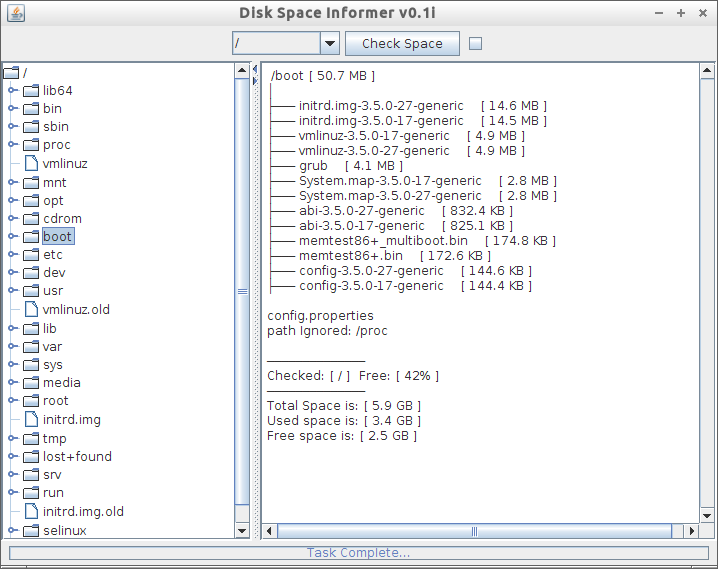
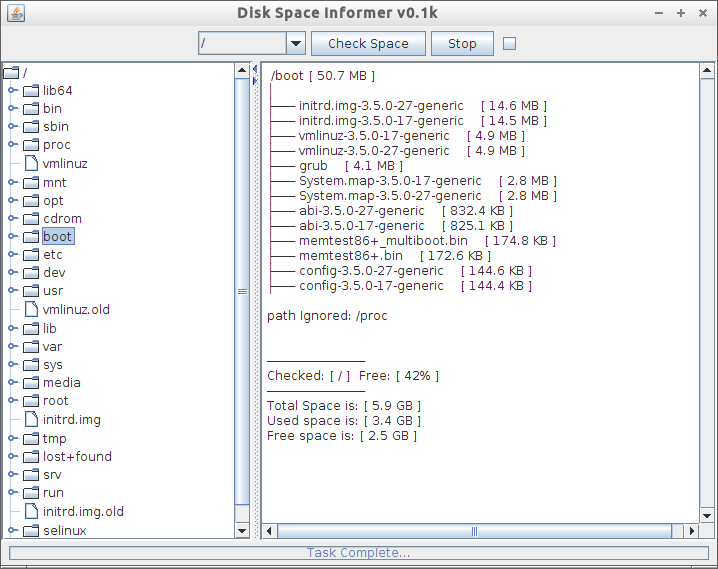
stop button to interrupt thread

Changed region(s): [[0.337, 0.0, 0.7354, 0.1195], [0.3677, 0.5378, 0.5515, 0.5975], [0.2758, 0.0299, 0.337, 0.1195]]

diff --git a/src/dsi/DiskSpaceInformer.java b/src/dsi/DiskSpaceInformer.java
@@ -4,26 +4,29 @@ import javax.swing.*;
 import javax.swing.tree.*;
 import java.awt.*;
 import java.awt.event.*;
+import java.beans.PropertyChangeEvent;
+import java.beans.PropertyChangeListener;
 import java.io.File;
 import java.io.IOException;
+import java.lang.reflect.InvocationTargetException;
 import java.util.*;
 import java.util.logging.Level;
 import java.util.logging.LogManager;
 import java.util.logging.Logger;
-
 
 public class DiskSpaceInformer extends JPanel
         implements ActionListener {
 
     private static Logger log;
     private static JTextArea textArea;
+    private final JButton stopButton;
     private JTree tree;
     private final JButton checkButton;
     private JScrollPane treeScrollPane;
     protected FindFileAndFolderSizes task;
     protected JProgressBar progressBar;
 
-    private static String version = "Disk Space Informer v0.1k";
+    private static String version = "Disk Space Informer v0.1L";
     static private final String newline = "\n";
     private final JComboBox drives;
 
@@ -68,6 +71,9 @@ public class DiskSpaceInformer extends JPanel
         checkButton = new JButton("Check Space");
         checkButton.setName("Check Space");
         checkButton.addActionListener(this);
+        stopButton = new JButton("Stop");
+        stopButton.setName("Stop");
+        stopButton.addActionListener(this);
 
         drives = new JComboBox(files);
         if (path != "") drives.addItem(path);
@@ -87,6 +93,7 @@ public class DiskSpaceInformer extends JPanel
         JPanel controlPanel = new JPanel();
         controlPanel.add(drives);
         controlPanel.add(checkButton);
+        controlPanel.add(stopButton);
         controlPanel.add(debugToggle);
 
         progressBar = new JProgressBar();
@@ -95,6 +102,7 @@ public class DiskSpaceInformer extends JPanel
         progressBar.setPreferredSize(prefSize);
         JPanel progressPanel = new JPanel();
         progressPanel.add(progressBar);
+
 
         String root = drives.getSelectedItem().toString();
         tree = new JTree();
@@ -120,20 +128,21 @@ public class DiskSpaceInformer extends JPanel
             tree.addMouseListener(new LeftClickMouseListener());
             treeScrollPane.setViewportView(tree);
         } else if (e.getSource() == checkButton) {
-
             task = new FindFileAndFolderSizes.Builder(new TreeFile(drives.getSelectedItem().toString()))
                     .pathstoIgnore(pathsToIgnore)
                     .textArea(textArea)
                     .progressBar(progressBar)
                     .debug(debug).build();
             task.execute();
+        } else if (e.getSource() == stopButton) {
+            task.cancel(true);
+
         }
     }
 
     private void showSpaceUsedByFolder() {
         TreePath[] selectionPaths = tree.getSelectionPaths();
         for (TreePath path : selectionPaths) {
-            FindFileAndFolderSizes task;
             File lastPathComponent = (File) path.getLastPathComponent();
             task = new FindFileAndFolderSizes.Builder(lastPathComponent)
                     .pathstoIgnore(pathsToIgnore)
@@ -164,9 +173,7 @@ public class DiskSpaceInformer extends JPanel
                 }
             }
         }
-    }
-
-    ;
+    };
 
     private static void setupAndShowUI(File[] files, String path) {
         JFrame frame = new JFrame(version);
@@ -177,8 +184,8 @@ public class DiskSpaceInformer extends JPanel
         frame.setVisible(true);
     }
 
-    public static void main(final String[] args) throws IOException {
-        SwingUtilities.invokeLater(new Runnable() {
+    public static void main(final String[] args) throws IOException, InvocationTargetException, InterruptedException {
+        SwingUtilities.invokeAndWait(new Runnable() {
             public void run() {
                 UIManager.put("swing.boldMetal", Boolean.FALSE);
                 if (args.length == 0) {

diff --git a/src/dsi/FindFileAndFolderSizes.java b/src/dsi/FindFileAndFolderSizes.java
@@ -30,6 +30,7 @@ class FindFileAndFolderSizes extends SwingWorker<Void, Void> {
         private boolean debug = false;
         private JProgressBar progressBar = new JProgressBar();
 
+
         public Builder(File file){
               this.file = file;
         }
@@ -44,6 +45,7 @@ class FindFileAndFolderSizes extends SwingWorker<Void, Void> {
             {debug = val; return this;}
         public Builder progressBar(JProgressBar val)
             {progressBar = val; return this;}
+
 
         public FindFileAndFolderSizes build(){
             return new FindFileAndFolderSizes(this);
@@ -61,6 +63,8 @@ class FindFileAndFolderSizes extends SwingWorker<Void, Void> {
 
     @Override
     public Void doInBackground() throws Exception {
+        //int progress = 0;
+        setProgress(0);
         if (file.isFile()) {
             textArea.setText(formatter.format(file) + "\n" + textArea.getText() + "\n");
             return null;
@@ -74,13 +78,15 @@ class FindFileAndFolderSizes extends SwingWorker<Void, Void> {
         for (String path : pathsToIgnore) {
             foldersToIgnore.add(new File(path).toPath());
         }
-
-        FileSystemVisitor visitor = new FileSystemVisitor(root, foldersToIgnore, progressBar);
-        String extraInfo = "";
+            FileSystemVisitor visitor = new FileSystemVisitor(root, foldersToIgnore, progressBar);
+            String extraInfo = "";
         try {
             Files.walkFileTree(root, visitor);
             foldersSizes = visitor.getFoldersSizes();
             extraInfo = visitor.getErrors();
+        } catch (VisitorException e) {
+            progressBar.setString(e.getMessage());
+            throw new VisitorException(e.getMessage());
         } catch (IOException e) {
             e.printStackTrace();
         }

diff --git a/src/dsi/FileSystemVisitor.java b/src/dsi/FileSystemVisitor.java
@@ -8,6 +8,18 @@ import java.util.*;
 import java.util.logging.Level;
 import java.util.logging.Logger;
 
+class VisitorException extends IOException
+{
+    public VisitorException() {}
+
+    //Constructor that accepts a message
+    public VisitorException(String message){
+        super(message);
+    }
+
+
+}
+
 public class FileSystemVisitor implements FileVisitor<Path> {
 
     private JProgressBar progressBar;
@@ -30,7 +42,7 @@ public class FileSystemVisitor implements FileVisitor<Path> {
         return foldersSizes;
     }
 
-    FileSystemVisitor(Path path, List pathsToIgnore,  JProgressBar progressBar) {
+    FileSystemVisitor(Path path, List pathsToIgnore, JProgressBar progressBar) {
         this(path);
         this.pathsToIgnore = pathsToIgnore;
         this.progressBar = progressBar;
@@ -48,6 +60,10 @@ public class FileSystemVisitor implements FileVisitor<Path> {
     }
 
     public FileVisitResult preVisitDirectory(Path dir, BasicFileAttributes attrs) throws IOException {
+
+        if (Thread.interrupted()) {
+            throw new VisitorException("Cancelled Task");
+        }
         log.log(Level.FINE, "[D]\t " + dir);
         progressBar.setString(dir.toString());
         if (pathsToIgnore.contains(dir)){

diff --git a/test/dsi/FileSystemVisitorTest.java b/test/dsi/FileSystemVisitorTest.java
@@ -10,11 +10,8 @@ import java.io.*;
 import java.lang.reflect.Method;
 import java.net.URL;
 import java.net.URLClassLoader;
-import java.nio.ByteBuffer;
-import java.nio.charset.Charset;
 import java.nio.file.Files;
 import java.nio.file.Path;
-import java.nio.file.Paths;
 import java.util.*;
 
 import static org.junit.Assert.*;
@@ -121,7 +118,7 @@ public class FileSystemVisitorTest {
             File file = new File(path);
             foldersToIgnore.add(file.toPath());
         }
-        FileSystemVisitor visitor = new FileSystemVisitor(root, foldersToIgnore, new JProgressBar());
+        FileSystemVisitor visitor = new FileSystemVisitor(root, foldersToIgnore, new JProgressBar() );
         try {
             Files.walkFileTree(root, visitor);
     } catch (IOException e) {
